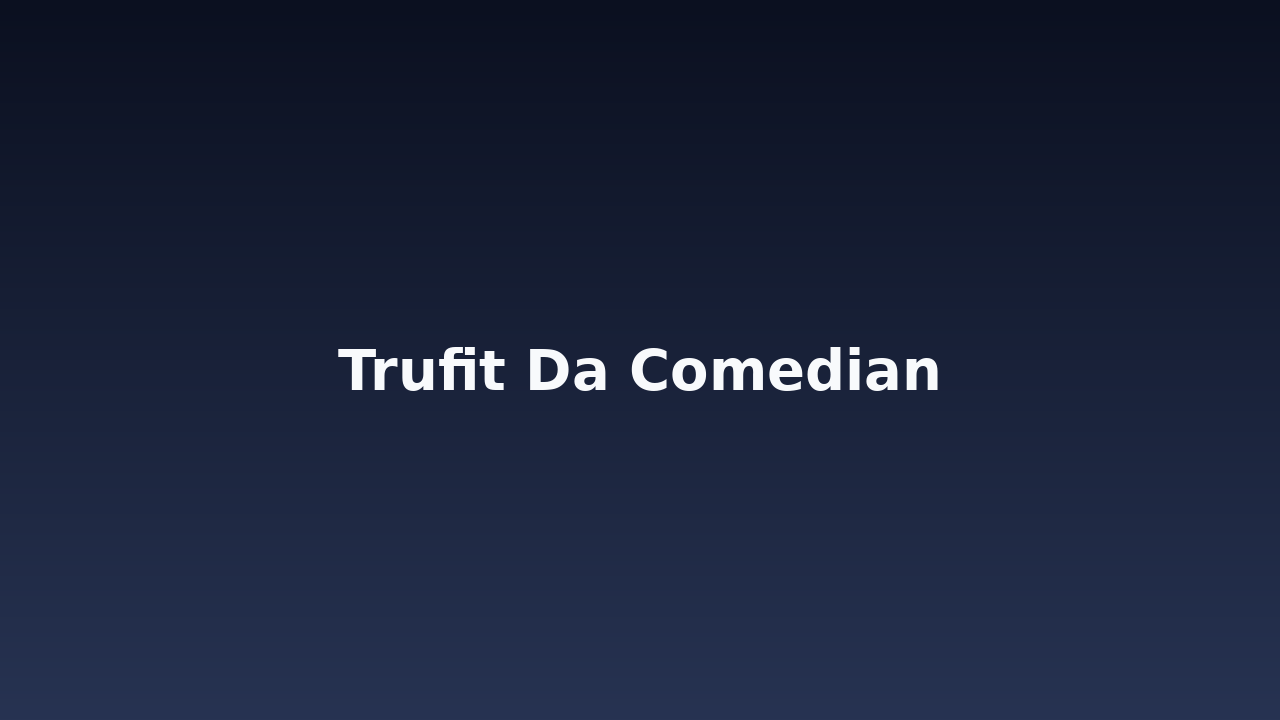
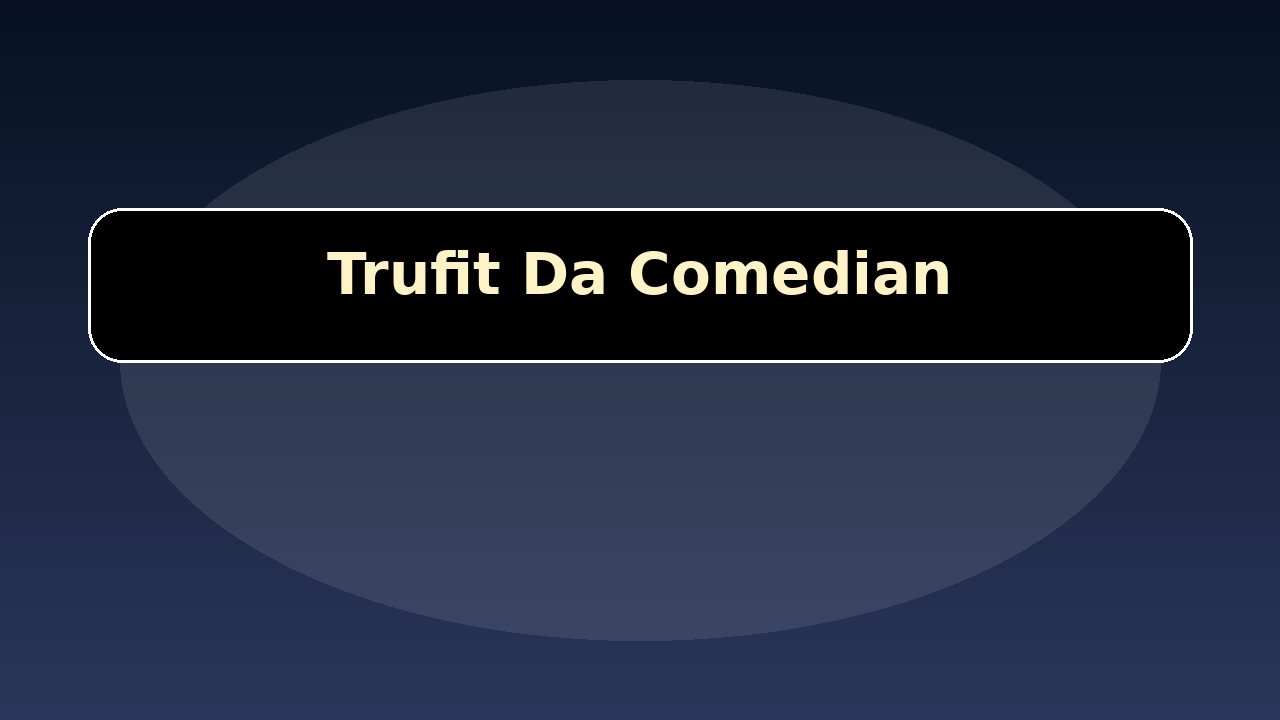
fix the bg issue

Changed region(s): [[0.0625, 0.275, 0.9375, 0.55]]

diff --git a/ai_file/test_ai.py b/ai_file/test_ai.py
@@ -32,18 +32,30 @@ def ensure_background_image(path: Path | None = None) -> Path:
         from PIL import Image, ImageDraw, ImageFont
 
         width, height = 1280, 720
-        img = Image.new("RGB", (width, height), "#0b1020")
+        img = Image.new("RGB", (width, height), "#07111f")
         draw = ImageDraw.Draw(img)
 
         for y in range(height):
             ratio = y / max(height - 1, 1)
-            r = int(11 + ratio * 28)
-            g = int(16 + ratio * 35)
-            b = int(32 + ratio * 50)
+            r = int(7 + ratio * 36)
+            g = int(17 + ratio * 38)
+            b = int(35 + ratio * 55)
             draw.line([(0, y), (width, y)], fill=(r, g, b))
 
+        # Add a soft spotlight and rounded panel for better readability
+        spotlight = Image.new("RGBA", (width, height), (0, 0, 0, 0))
+        spotlight_draw = ImageDraw.Draw(spotlight)
+        spotlight_draw.ellipse((120, 80, width - 120, height - 80), fill=(255, 255, 255, 24))
+        img = Image.alpha_composite(img.convert("RGBA"), spotlight).convert("RGB")
+        draw = ImageDraw.Draw(img)
+
+        panel_x1, panel_y1 = 90, 210
+        panel_x2, panel_y2 = width - 90, 360
+        draw.rounded_rectangle((panel_x1, panel_y1, panel_x2, panel_y2), radius=32, fill=(0, 0, 0, 180))
+        draw.rounded_rectangle((panel_x1 - 2, panel_y1 - 2, panel_x2 + 2, panel_y2 + 2), radius=34, outline=(255, 255, 255, 70), width=3)
+
         try:
-            font = ImageFont.truetype("/usr/share/fonts/truetype/dejavu/DejaVuSans-Bold.ttf", 56)
+            font = ImageFont.truetype("/usr/share/fonts/truetype/dejavu/DejaVuSans-Bold.ttf", 58)
         except Exception:
             font = ImageFont.load_default()
 
@@ -51,8 +63,12 @@ def ensure_background_image(path: Path | None = None) -> Path:
         text_w = bbox[2] - bbox[0]
         text_h = bbox[3] - bbox[1]
         x = (width - text_w) // 2
-        y = (height - text_h) // 2
-        draw.text((x, y), BACKGROUND_TEXT, fill="#f8fafc", font=font)
+        y = 240
+
+        shadow_color = (0, 0, 0, 180)
+        draw.text((x + 3, y + 3), BACKGROUND_TEXT, fill=shadow_color, font=font)
+        draw.text((x, y), BACKGROUND_TEXT, fill="#fef3c7", font=font)
+
         img.save(bg_path, format="PNG")
     except Exception:
         bg_path.write_bytes(b"")

diff --git a/test_ai_1.py b/test_ai_1.py
@@ -26,18 +26,29 @@ def ensure_background_image(path: Path | None = None) -> Path:
         from PIL import Image, ImageDraw, ImageFont
 
         width, height = 1280, 720
-        img = Image.new("RGB", (width, height), "#0b1020")
+        img = Image.new("RGB", (width, height), "#07111f")
         draw = ImageDraw.Draw(img)
 
         for y in range(height):
             ratio = y / max(height - 1, 1)
-            r = int(11 + ratio * 28)
-            g = int(16 + ratio * 35)
-            b = int(32 + ratio * 50)
+            r = int(7 + ratio * 36)
+            g = int(17 + ratio * 38)
+            b = int(35 + ratio * 55)
             draw.line([(0, y), (width, y)], fill=(r, g, b))
 
+        spotlight = Image.new("RGBA", (width, height), (0, 0, 0, 0))
+        spotlight_draw = ImageDraw.Draw(spotlight)
+        spotlight_draw.ellipse((120, 80, width - 120, height - 80), fill=(255, 255, 255, 24))
+        img = Image.alpha_composite(img.convert("RGBA"), spotlight).convert("RGB")
+        draw = ImageDraw.Draw(img)
+
+        panel_x1, panel_y1 = 90, 210
+        panel_x2, panel_y2 = width - 90, 360
+        draw.rounded_rectangle((panel_x1, panel_y1, panel_x2, panel_y2), radius=32, fill=(0, 0, 0, 180))
+        draw.rounded_rectangle((panel_x1 - 2, panel_y1 - 2, panel_x2 + 2, panel_y2 + 2), radius=34, outline=(255, 255, 255, 70), width=3)
+
         try:
-            font = ImageFont.truetype("/usr/share/fonts/truetype/dejavu/DejaVuSans-Bold.ttf", 56)
+            font = ImageFont.truetype("/usr/share/fonts/truetype/dejavu/DejaVuSans-Bold.ttf", 58)
         except Exception:
             font = ImageFont.load_default()
 
@@ -45,8 +56,12 @@ def ensure_background_image(path: Path | None = None) -> Path:
         text_w = bbox[2] - bbox[0]
         text_h = bbox[3] - bbox[1]
         x = (width - text_w) // 2
-        y = (height - text_h) // 2
-        draw.text((x, y), BACKGROUND_TEXT, fill="#f8fafc", font=font)
+        y = 240
+
+        shadow_color = (0, 0, 0, 180)
+        draw.text((x + 3, y + 3), BACKGROUND_TEXT, fill=shadow_color, font=font)
+        draw.text((x, y), BACKGROUND_TEXT, fill="#fef3c7", font=font)
+
         img.save(bg_path, format="PNG")
     except Exception:
         bg_path.write_bytes(b"")